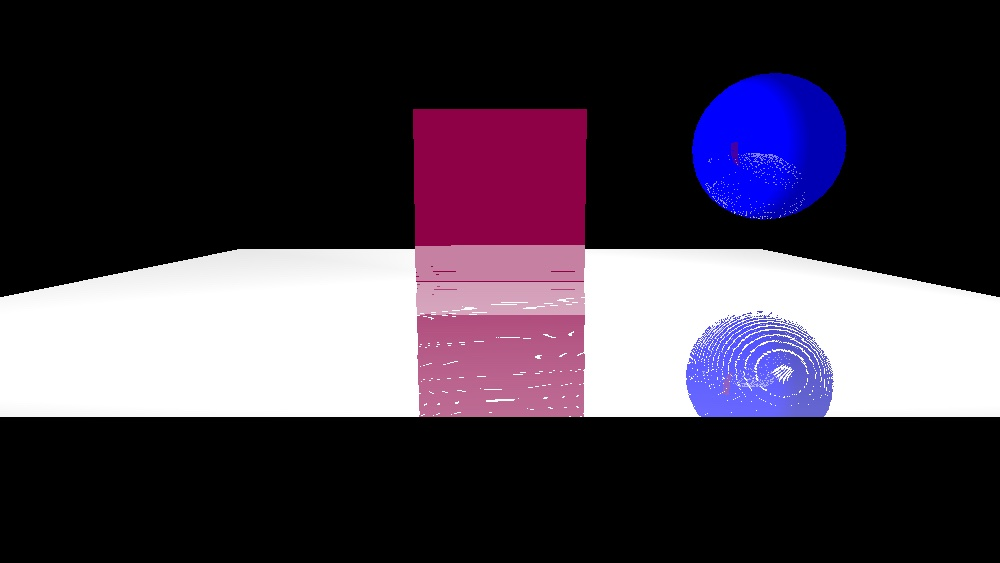
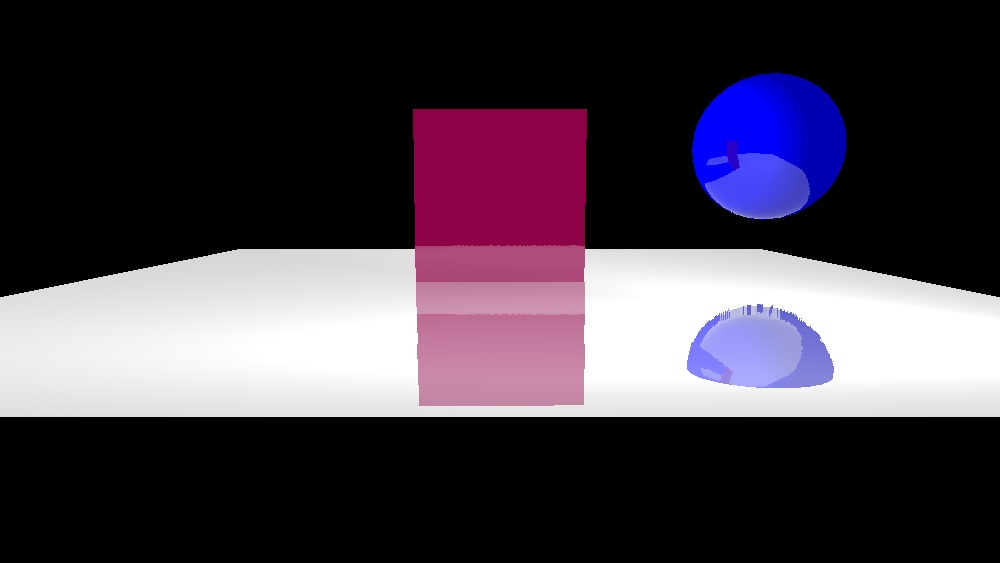
Enhance screen-space reflections.”

Changed region(s): [[0.0, 0.4227, 1.0, 0.7549], [0.682, 0.2416, 0.806, 0.3925]]

diff --git a/OutPut/Device.cpp b/OutPut/Device.cpp
@@ -640,18 +640,59 @@ void Device::ApplyScreenSpaceReflections(const std::shared_ptr<Camera> &camera, 
             vec3 viewDirWorld = normalize(positionWorld - camera->get_position());
             vec3 reflection = reflect(viewDirWorld, normal);
 
-            // ⭐ FRESNEL - Calculer l'intensité de réflexion selon l'angle
+            // FRESNEL - Calculer l'intensité de réflexion selon l'angle
             float NdotV = std::max(dot(normal, -viewDirWorld), 0.0f);
-            float F0 = 0.5f; // 0.04f; // Réflectance à incidence normale (matériau diélectrique standard)
+            float F0 = 0.3f;
             float fresnel = F0 + (1.0f - F0) * pow(1.0f - NdotV, 5.0f);
 
-            vec3 startRay = positionWorld + normal * 0.01f; // 0.0005f;
+            vec3 startRay = positionWorld + normal * 0.01f;
 
-            int maxStep = 1000;
-            vec3 curPos = startRay;
-
+            // CALCUL DE LA DISTANCE MAX ET DU STEP
             vec4 startNdc = proj * view * vec4{startRay, 1.0f};
             startNdc /= startNdc.w;
+            
+            // Point de départ en coordonnées écran [0,1]
+            vec2 startUV{
+                (startNdc.x + 1.0f) * 0.5f,
+                (-startNdc.y + 1.0f) * 0.5f
+            };
+            
+            // Direction du rayon en NDC
+            vec4 endPointWorld = vec4{startRay + reflection, 1.0f};
+            vec4 endPointNdc = proj * view * endPointWorld;
+            endPointNdc /= endPointNdc.w;
+            
+            vec2 endUV{
+                (endPointNdc.x + 1.0f) * 0.5f,
+                (-endPointNdc.y + 1.0f) * 0.5f
+            };
+            
+            // Vecteur de réflexion en espace écran
+            vec2 reflectionScreenSpace = endUV - startUV;
+
+            // Calculer la distance jusqu'aux bords de l'écran
+            vec2 rayDir2D = normalize(reflectionScreenSpace);
+
+            // Calculer la distance jusqu'au bord dans chaque direction
+            float distX = (rayDir2D.x > 0.0f ? 1.0f - startUV.x : startUV.x) / (abs(rayDir2D.x) + 1e-6f);
+            float distY = (rayDir2D.y > 0.0f ? 1.0f - startUV.y : startUV.y) / (abs(rayDir2D.y) + 1e-6f);
+            
+            float distance_max = std::min(distX, distY);
+            distance_max = std::min(distance_max, sqrtf(2.0f)); // Limiter à la diagonale écran
+            distance_max = std::max(distance_max, 0.01f); // Minimum de sécurité
+            
+            // Longueur du vecteur de réflexion en espace écran
+            float reflectionLength = length(reflectionScreenSpace);
+            if (reflectionLength < 1e-6f)
+                continue; // Éviter division par zéro
+            
+            // Step normalisé = distance_max / longueur du vecteur
+            int baseSteps = 1000;
+            int maxStep = static_cast<int>(distance_max * baseSteps);
+            maxStep = std::max(maxStep, 10); 
+            float stepSize = (distance_max / reflectionLength) / static_cast<float>(maxStep);
+
+            vec3 curPos = startRay;
 
             bool hit = false;
             vec3 hitColor{};
@@ -682,39 +723,21 @@ void Device::ApplyScreenSpaceReflections(const std::shared_ptr<Camera> &camera, 
                 float linearCurPosZ = LinearizeDepth(curPosZ, 1.0f, 100.0f);
                 float linearPrevPosZ = LinearizeDepth(prevPosZ, 1.0f, 100.0f);
 
-                // ⭐ Calculer la distance à la surface
+                // Calculer la distance à la surface
                 float distanceToSurface = abs(linearCurPosZ - linearPixelDepth);
 
-                bool crossing = (linearPrevPosZ < linearPixelDepth && linearCurPosZ >= linearPixelDepth) ||
-                                (linearPrevPosZ > linearPixelDepth && linearCurPosZ <= linearPixelDepth);
-
-                if (crossing && distanceToSurface < 0.5f)
+                if (linearCurPosZ >= linearPixelDepth && distanceToSurface < 0.3125f)
                 {
                     hit = true;
                     hitColor = GetPixelAlbedo(screenX, screenY);
                     break;
                 }
 
-                // ⭐ Pas adaptatif selon la distance
-                float adaptiveStep;
-                if (distanceToSurface < 1.0f)
-                {
-                    adaptiveStep = 0.005f; // Petit step près de la surface
-                }
-                else if (distanceToSurface < 5.0f)
-                {
-                    adaptiveStep = 0.02f; // Step moyen
-                }
-                else
-                {
-                    adaptiveStep = 0.05f; // Grand step loin des surfaces
-                }
-
-                curPos += reflection * adaptiveStep;
+                curPos += reflection * stepSize;
                 prevPosZ = curPosZ;
             }
 
-            // ⭐ BLENDING - Mélanger couleur originale et réflexion selon Fresnel
+            // BLENDING - Mélanger couleur originale et réflexion selon Fresnel
             vec3 baseColor = GetPixelAlbedo(x, y); // Couleur originale du pixel
 
             vec3 finalColor;
